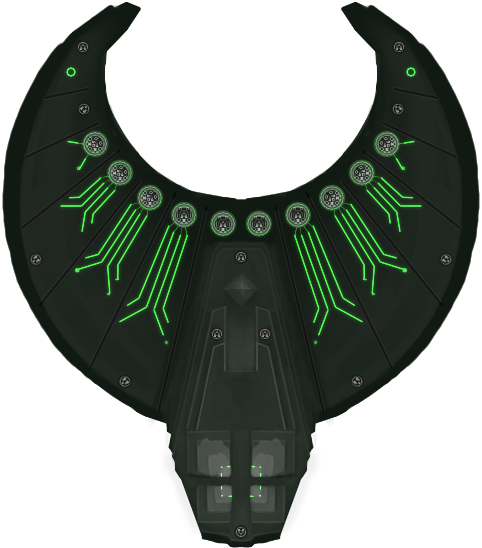
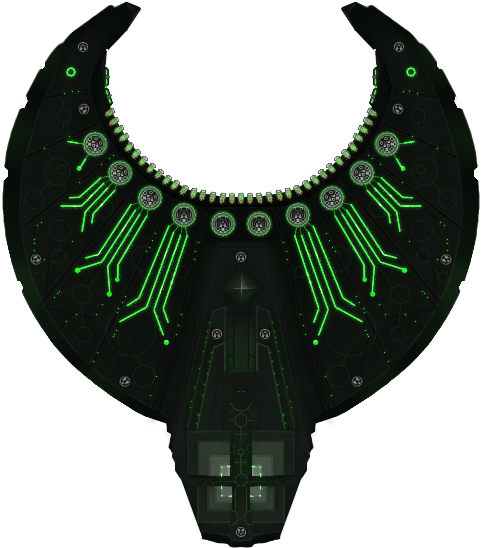
Add atomics, improve cairn.

diff --git a/src/mok_slyk/shpe/scripts/hullmods/AtomicShell.java b/src/mok_slyk/shpe/scripts/hullmods/AtomicShell.java
@@ -3,7 +3,7 @@ package mok_slyk.shpe.scripts.hullmods;
 import com.fs.starfarer.api.combat.BaseHullMod;
 import com.fs.starfarer.api.combat.ShipAPI;
 
-public class NurgleHive extends BaseHullMod {
+public class AtomicShell extends BaseHullMod {
 
     @Override
     public boolean isApplicableToShip(ShipAPI ship) {
@@ -11,10 +11,10 @@ public class NurgleHive extends BaseHullMod {
         if (ship.getVariant().hasHullMod("shpe_hecutor_shell")) return false;
         if (ship.getVariant().hasHullMod("shpe_pyros_shell")) return false;
         if (ship.getVariant().hasHullMod("shpe_disruptor_shell")) return false;
-        if (ship.getVariant().hasHullMod("shpe_staravar_shell")) return false;
         if (ship.getVariant().hasHullMod("shpe_stygies_shell")) return false;
         if (ship.getVariant().hasHullMod("shpe_shard_shell")) return false;
-        if (ship.getVariant().hasHullMod("shpe_atomic_shell")) return false;
+        if (ship.getVariant().hasHullMod("shpe_nurgle_hives")) return false;
+        if (ship.getVariant().hasHullMod("shpe_staravar_shell")) return false;
         return ship != null;
     }
 
@@ -31,17 +31,17 @@ public class NurgleHive extends BaseHullMod {
         if (ship.getVariant().hasHullMod("shpe_pyros_shell")) {
             return "Incompatible with Macrocannon: Pyros Shells";
         }
-        if (ship.getVariant().hasHullMod("shpe_staravar_shell")) {
-            return "Incompatible with Macrocannon: Staravar Shells";
-        }
         if (ship.getVariant().hasHullMod("shpe_stygies_shell")) {
             return "Incompatible with Macrocannon: Stygies Shells";
         }
         if (ship.getVariant().hasHullMod("shpe_shard_shell")) {
             return "Incompatible with Macrocannon: Shard Shells";
         }
-        if (ship.getVariant().hasHullMod("shpe_atomic_shell")) {
-            return "Incompatible with Macrocannon: Atomic Shells";
+        if (ship.getVariant().hasHullMod("shpe_nurgle_hives")) {
+            return "Incompatible with Macrocannon: Hives of Nurgle";
+        }
+        if (ship.getVariant().hasHullMod("shpe_staravar_shell")) {
+            return "Incompatible with Macrocannon: Staravar Shells";
         }
         return "Incompatible";
     }

diff --git a/src/mok_slyk/shpe/scripts/campaign/GodEventIntel.java b/src/mok_slyk/shpe/scripts/campaign/GodEventIntel.java
@@ -173,13 +173,13 @@ public class GodEventIntel extends BaseEventIntel {
                 }
                 if (stageID == Stage.GIFT_1) {
                     info.addPara("The effect of the %s hullmod on your ships improves: "
-                                    + "While below 70%% hullm, the effect of the %s is doubled."
+                                    + "While below 70%% hull, the effect of the %s is doubled."
                             , opad
                             , h
                             , "Mark of Khorne", "Mark of Khorne");
                 }
                 if (stageID == Stage.GIFT_2) {
-                    info.addPara("You can acquire the %s and %s"
+                    info.addPara("You can acquire the %s and %s "
                                     + "weapons through the %s abillity."
                             , opad
                             , h
@@ -234,7 +234,7 @@ public class GodEventIntel extends BaseEventIntel {
                     info.addPara("You unlock the %s hullmod "
                             , opad
                             , h
-                            , "Ark of Pestilence");
+                            , "Warp Beasts");
                 }
                 break;
             case ChaosGodsEventIntel.NURGLE_I:
@@ -273,7 +273,7 @@ public class GodEventIntel extends BaseEventIntel {
                     info.addPara("You unlock the %s hullmod "
                             , opad
                             , h
-                            , "Warp Beasts");
+                            , "Ark of Pestilence");
                 }
                 break;
             case ChaosGodsEventIntel.SLAANESH_I:
@@ -298,7 +298,7 @@ public class GodEventIntel extends BaseEventIntel {
                             , "Siren's Summon");
                 }
                 if (stageID == Stage.GIFT_2) {
-                    info.addPara("You can acquire the %s and %s"
+                    info.addPara("You can acquire the %s and %s "
                                     + "weapons through the %s abillity."
                             , opad
                             , h

diff --git a/src/mok_slyk/shpe/scripts/AtomicOnHitEffect.java b/src/mok_slyk/shpe/scripts/AtomicOnHitEffect.java
@@ -1,0 +1,25 @@
+package mok_slyk.shpe.scripts;
+
+import com.fs.starfarer.api.combat.*;
+import com.fs.starfarer.api.combat.listeners.ApplyDamageResultAPI;
+import com.fs.starfarer.api.loading.DamagingExplosionSpec;
+import org.lwjgl.util.vector.Vector2f;
+
+import java.awt.*;
+
+public class AtomicOnHitEffect implements OnHitEffectPlugin {
+    @Override
+    public void onHit(DamagingProjectileAPI projectile, CombatEntityAPI target, Vector2f point, boolean shieldHit, ApplyDamageResultAPI damageResult, CombatEngineAPI engine) {
+        DamagingExplosionSpec spec = new DamagingExplosionSpec(3, 40, 20, 500, 200, CollisionClass.PROJECTILE_FF, CollisionClass.PROJECTILE_FIGHTER,
+                5, 50, 1.5f, 20, new Color(255, 200, 150, 150), new Color(235, 255, 180, 220));
+        spec.setUseDetailedExplosion(true);
+        spec.setDetailedExplosionRadius(50);
+        spec.setDetailedExplosionFlashRadius(50);
+        spec.setDetailedExplosionFlashDuration(2);
+        spec.setDetailedExplosionFlashColorFringe(new Color(255, 235, 120, 220));
+        spec.setDetailedExplosionFlashColorCore(new Color(235, 255, 190, 220));
+
+        engine.spawnDamagingExplosion(spec, projectile.getSource(), point, true);
+
+    }
+}

diff --git a/src/mok_slyk/shpe/scripts/hullmods/IntegratedBroadsideBatteries.java b/src/mok_slyk/shpe/scripts/hullmods/IntegratedBroadsideBatteries.java
@@ -11,7 +11,8 @@ public class IntegratedBroadsideBatteries extends BaseHullMod {
     public final String DEFAULT_STATS_ID = "shpe_marsvi";
     public final String PREFIX = "shpe_";
     public final String SUFFIX = "_reference";
-    public final Set<String> VALID_IDS = new HashSet<>(Arrays.asList("shpe_stygies_shell", "shpe_pyros_shell", "shpe_disruptor_shell", "shpe_hecutor_shell", "shpe_staravar_shell", "shpe_shard_shell", "shpe_nurgle_hives"));
+    public final Set<String> VALID_IDS = new HashSet<>(Arrays.asList("shpe_stygies_shell", "shpe_pyros_shell", "shpe_disruptor_shell", "shpe_hecutor_shell", "shpe_staravar_shell",
+            "shpe_shard_shell", "shpe_nurgle_hives", "shpe_atomic_shell"));
     public final int MAX_SLOT_COUNT = 24; //last slot: BIB23
 
     @Override
@@ -49,6 +50,9 @@ public class IntegratedBroadsideBatteries extends BaseHullMod {
                 break;
             case "shpe_nurgle_hives":
                 weaponSpecID = "shpe_hive";
+                break;
+            case "shpe_atomic_shell":
+                weaponSpecID = "shpe_atomic_reference";
                 break;
             default:
                 weaponSpecID = "shpe_marsvi_builtin";

diff --git a/src/mok_slyk/shpe/scripts/hullmods/DisruptorShell.java b/src/mok_slyk/shpe/scripts/hullmods/DisruptorShell.java
@@ -13,6 +13,7 @@ public class DisruptorShell extends BaseHullMod {
         if (ship.getVariant().hasHullMod("shpe_stygies_shell")) return false;
         if (ship.getVariant().hasHullMod("shpe_staravar_shell")) return false;
         if (ship.getVariant().hasHullMod("shpe_shard_shell")) return false;
+        if (ship.getVariant().hasHullMod("shpe_atomic_shell")) return false;
         return ship != null;
     }
 
@@ -34,6 +35,9 @@ public class DisruptorShell extends BaseHullMod {
         }
         if (ship.getVariant().hasHullMod("shpe_shard_shell")) {
             return "Incompatible with Macrocannon: Shard Shells";
+        }
+        if (ship.getVariant().hasHullMod("shpe_atomic_shell")) {
+            return "Incompatible with Macrocannon: Atomic Shells";
         }
         return "Incompatible";
     }

diff --git a/src/mok_slyk/shpe/scripts/hullmods/StaravarShell.java b/src/mok_slyk/shpe/scripts/hullmods/StaravarShell.java
@@ -15,6 +15,7 @@ public class StaravarShell extends BaseHullMod {
         if (ship.getVariant().hasHullMod("shpe_stygies_shell")) return false;
         if (ship.getVariant().hasHullMod("shpe_shard_shell")) return false;
         if (ship.getVariant().hasHullMod("shpe_nurgle_hives")) return false;
+        if (ship.getVariant().hasHullMod("shpe_atomic_shell")) return false;
         return ship != null;
     }
 
@@ -39,6 +40,9 @@ public class StaravarShell extends BaseHullMod {
         }
         if (ship.getVariant().hasHullMod("shpe_nurgle_hives")) {
             return "Incompatible with Macrocannon: Hives of Nurgle";
+        }
+        if (ship.getVariant().hasHullMod("shpe_atomic_shell")) {
+            return "Incompatible with Macrocannon: Atomic Shells";
         }
         return "Incompatible";
     }

diff --git a/src/mok_slyk/shpe/scripts/hullmods/HecutorShell.java b/src/mok_slyk/shpe/scripts/hullmods/HecutorShell.java
@@ -14,6 +14,7 @@ public class HecutorShell extends BaseHullMod {
         if (ship.getVariant().hasHullMod("shpe_staravar_shell")) return false;
         if (ship.getVariant().hasHullMod("shpe_shard_shell")) return false;
         if (ship.getVariant().hasHullMod("shpe_nurgle_hives")) return false;
+        if (ship.getVariant().hasHullMod("shpe_atomic_shell")) return false;
         return ship != null;
     }
 
@@ -38,6 +39,9 @@ public class HecutorShell extends BaseHullMod {
         }
         if (ship.getVariant().hasHullMod("shpe_nurgle_hives")) {
             return "Incompatible with Macrocannon: Hives of Nurgle";
+        }
+        if (ship.getVariant().hasHullMod("shpe_atomic_shell")) {
+            return "Incompatible with Macrocannon: Atomic Shells";
         }
         return "Incompatible";
     }

diff --git a/src/mok_slyk/shpe/scripts/hullmods/StygiesShell.java b/src/mok_slyk/shpe/scripts/hullmods/StygiesShell.java
@@ -20,6 +20,7 @@ public class StygiesShell extends BaseHullMod {
         if (ship.getVariant().hasHullMod("shpe_staravar_shell")) return false;
         if (ship.getVariant().hasHullMod("shpe_shard_shell")) return false;
         if (ship.getVariant().hasHullMod("shpe_nurgle_hives")) return false;
+        if (ship.getVariant().hasHullMod("shpe_atomic_shell")) return false;
         return ship != null;
     }
 
@@ -44,6 +45,9 @@ public class StygiesShell extends BaseHullMod {
         }
         if (ship.getVariant().hasHullMod("shpe_nurgle_hives")) {
             return "Incompatible with Macrocannon: Hives of Nurgle";
+        }
+        if (ship.getVariant().hasHullMod("shpe_atomic_shell")) {
+            return "Incompatible with Macrocannon: Atomic Shells";
         }
         return "Incompatible";
     }

diff --git a/src/mok_slyk/shpe/scripts/hullmods/ShardShell.java b/src/mok_slyk/shpe/scripts/hullmods/ShardShell.java
@@ -14,6 +14,7 @@ public class ShardShell extends BaseHullMod {
         if (ship.getVariant().hasHullMod("shpe_staravar_shell")) return false;
         if (ship.getVariant().hasHullMod("shpe_stygies_shell")) return false;
         if (ship.getVariant().hasHullMod("shpe_nurgle_hives")) return false;
+        if (ship.getVariant().hasHullMod("shpe_atomic_shell")) return false;
         return ship != null;
     }
 
@@ -38,6 +39,9 @@ public class ShardShell extends BaseHullMod {
         }
         if (ship.getVariant().hasHullMod("shpe_nurgle_hives")) {
             return "Incompatible with Macrocannon: Hives of Nurgle";
+        }
+        if (ship.getVariant().hasHullMod("shpe_atomic_shell")) {
+            return "Incompatible with Macrocannon: Atomic Shells";
         }
         return "Incompatible";
     }

diff --git a/src/mok_slyk/shpe/scripts/hullmods/PyrosShell.java b/src/mok_slyk/shpe/scripts/hullmods/PyrosShell.java
@@ -14,6 +14,7 @@ public class PyrosShell extends BaseHullMod {
         if (ship.getVariant().hasHullMod("shpe_staravar_shell")) return false;
         if (ship.getVariant().hasHullMod("shpe_shard_shell")) return false;
         if (ship.getVariant().hasHullMod("shpe_nurgle_hives")) return false;
+        if (ship.getVariant().hasHullMod("shpe_atomic_shell")) return false;
         return ship != null;
     }
 
@@ -38,6 +39,9 @@ public class PyrosShell extends BaseHullMod {
         }
         if (ship.getVariant().hasHullMod("shpe_nurgle_hives")) {
             return "Incompatible with Macrocannon: Hives of Nurgle";
+        }
+        if (ship.getVariant().hasHullMod("shpe_atomic_shell")) {
+            return "Incompatible with Macrocannon: Atomic Shells";
         }
         return "Incompatible";
     }
